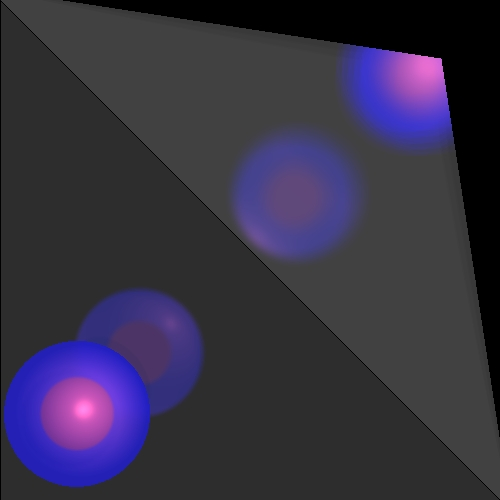
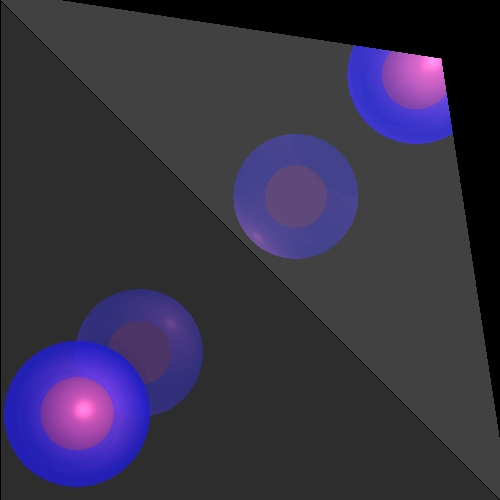
project1 final

diff --git a/src/renderer/Render.java b/src/renderer/Render.java
@@ -51,7 +51,7 @@ public class Render {
      * numOfRaysForDiffusedAndGlossy - number of rays for reflection and refraction
      */
     private double distanceForDiffusedAndGlossy = 100;
-    private int numOfRaysForDiffusedAndGlossy = 50;
+    private int numOfRaysForDiffusedAndGlossy = 36;
 
 
 
@@ -418,12 +418,12 @@ public class Render {
     }
 
     /**
-     * unshaded -cheak if an intersection point need to be shadow or not
+     * unshaded - check if an intersection point need to be shadow or not
      * @param l direction from light to point
      * @param n normal to the point
      * @param gp the point we check for shadow
      * @param lightSource the light source
-     * @return true if its an intersection point need to be unshadow
+     * @return true if its an intersection point need to be unshaded
      */
     private boolean unshaded(Vector l, Vector n, GeoPoint gp, LightSource lightSource){
         try {
@@ -504,29 +504,28 @@ public class Render {
         if(direction != 1 && direction != -1)
             throw new IllegalArgumentException("direction must be 1 or -1");
         double gridSize = DiffusedAndGlossy;
-        int numOfRowCol = (int)Math.ceil(Math.sqrt(numOfRaysForDiffusedAndGlossy));
+        int numOfRowCol = isZero(gridSize)? 1: (int)Math.ceil(Math.sqrt(numOfRaysForDiffusedAndGlossy));
         Vector Vup = Vto.findRandomOrthogonal();//vector in the grid
         Vector Vright = Vto.crossProduct(Vup);//vector in the grid
-        Point3D Pij = point.add(Vto.scale(distanceForDiffusedAndGlossy)); // center point of the grid
-        double sizeOfCube = isZero(gridSize)? 1: gridSize/numOfRowCol;//size of each cube in the grid
+        Point3D centerOfGrid = point.add(Vto.scale(distanceForDiffusedAndGlossy)); // center point of the grid
+        double sizeOfCube = gridSize/numOfRowCol;//size of each cube in the grid
         List rays = new LinkedList<Ray>();
         n = n.dotProduct(Vto) > 0 ? n.scale(-direction) : n.scale(direction);//fix the normal direction
-
-        Point3D tempPij = Pij;//save the center of the grid
+        Point3D tempcenterOfGrid = centerOfGrid;//save the center of the grid
         Vector tempRayVector;
-        for (int r = 0; r < numOfRowCol; r++){
-            double PXj= (r - (numOfRowCol/2d))*sizeOfCube + sizeOfCube/2d;
-            for(int c = 0; c < numOfRowCol; c++)
+        for (int row = 0; row < numOfRowCol; row++){
+            double xAsixChange= (row - (numOfRowCol/2d))*sizeOfCube + sizeOfCube/2d;
+            for(int col = 0; col < numOfRowCol; col++)
             {
-                double PYi= (c - (numOfRowCol/2d))*sizeOfCube + sizeOfCube/2d;
-                if(PXj != 0) Pij = Pij.add(Vright.scale(-PXj)) ;
-                if(PYi != 0) Pij = Pij.add(Vup.scale(-PYi)) ;
-                tempRayVector = Pij.subtract(point);
+                double yAsixChange= (col - (numOfRowCol/2d))*sizeOfCube + sizeOfCube/2d;
+                if(xAsixChange != 0) centerOfGrid = centerOfGrid.add(Vright.scale(-xAsixChange)) ;
+                if(yAsixChange != 0) centerOfGrid = centerOfGrid.add(Vup.scale(-yAsixChange)) ;
+                tempRayVector = centerOfGrid.subtract(point);
                 if(n.dotProduct(tempRayVector) < 0 && direction == 1) //refraction
                     rays.add(new Ray(point, tempRayVector, n));
                 if(n.dotProduct(tempRayVector) > 0 && direction == -1) //reflection
                     rays.add(new Ray(point, tempRayVector, n));
-                Pij = tempPij;
+                centerOfGrid = tempcenterOfGrid;
             }
         }
         return rays;

diff --git a/src/geometries/Plane.java b/src/geometries/Plane.java
@@ -30,8 +30,9 @@ public class Plane extends Geometry {
      */
     public Plane(Color color,Point3D point, Vector normal)
     {
-        this(point, normal);
-        _emmission = color;
+        super(color);
+        _p = new Point3D(point);
+        _normal = new Vector(normal);
     }
 
     /**
@@ -39,8 +40,9 @@ public class Plane extends Geometry {
      */
     public Plane(Color color, Material material,Point3D point, Vector normal)
     {
-        this(color, point, normal);
-        _material = material;
+        super(color,material);
+        _p = new Point3D(point);
+        _normal = new Vector(normal);
     }
 
     /**

diff --git a/src/primitives/Material.java b/src/primitives/Material.java
@@ -11,7 +11,7 @@ public class Material {
     double _KT; //transparency
     double _KR; //reflection
     int _nShininess;
-    double _DiffusedAndGlossy = 0.0001;// size of diffused and glossy grid
+    double _DiffusedAndGlossy = 0;// size of diffused and glossy grid
 
     /**
      * constructor of Material class
